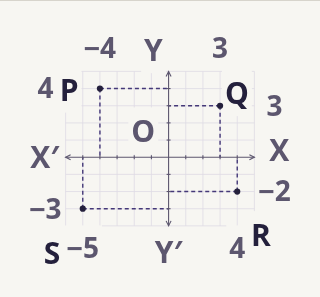
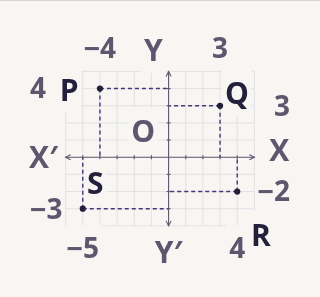
Anchor enlarged axis values within the available gutter

diff --git a/site/assets/diagramguard-coordinate-plot.js b/site/assets/diagramguard-coordinate-plot.js
@@ -56,7 +56,7 @@
   }
 
   function draw(svg, config, width, rem) {
-    const {points,outlines=[],segments=[],directions={},insideLabels='',axes=true,showOrigin=true,
+    const {points,outlines=[],segments=[],directions={},edgeDirections={},insideLabels='',axes=true,showOrigin=true,
       fullAxes=false,quadrants=false,projections=false,pointNames=true}=config;
     const xy = Object.values(points);
     const xs = xy.map(([x])=>x);
@@ -119,7 +119,7 @@
     }
     if (axes) addAxes('X',toPlot(xMin,0),toPlot(xMax,0),[1,0]);
     if (axes && xMin<0) addAxes('Y',toPlot(0,yMin),toPlot(0,yMax),[0,-1]);
-    if (projections) drawProjections(svg,points,toPlot,{xMin,xMax,yMin,yMax},edgeLabels,scale,rem,placements);
+    if (projections) drawProjections(svg,points,toPlot,{width,yMin,yMax},edgeLabels,scale,rem,placements);
     if (quadrants) {
       const names = ['I','II','III','IV'];
       const centers = [[xMax,yMax],[xMin,yMax],[xMin,yMin],[xMax,yMin]];
@@ -159,7 +159,7 @@
           towardCenter.map(value=>value*Math.min(.62,offset*rem/length)));
         placements.push({label,anchor,candidates});
       } else {
-        const direction = directions[id] || [cx-center[0],cy-center[1]];
+        const direction = (edgeLabels && edgeDirections[id]) || directions[id] || [cx-center[0],cy-center[1]];
         placements.push({label,anchor,direction});
       }
     }
@@ -195,10 +195,16 @@
         const away = (i ? -1 : 1)*side;
         if (edgeLabels) {
           // Follow the point's grid line to its nearest edge when the axis is crowded.
-          const edge = i ? project(away>0?bounds.xMin:bounds.xMax,value) :
-            project(value,away>0?bounds.yMax:bounds.yMin);
-          const position = -(i ? .63 : .71)*rem*away;
-          placements.push({label,anchor:edge,candidates:[[dx*position,dy*position]]});
+          if (i) {
+            // Anchor the outer edge of the number so a wider minus glyph cannot clip.
+            const left = away>0;
+            label.setAttribute('text-anchor',left?'start':'end');
+            const gutter = rem*.19;
+            placements.push({label,anchor:[left?gutter:bounds.width-gutter,y],candidates:[[0,0]]});
+          } else {
+            const edge = project(value,away>0?bounds.yMax:bounds.yMin);
+            placements.push({label,anchor:edge,candidates:[[0,-.71*rem*away]]});
+          }
         } else {
           const signs = ticks.has(value) ? [away] : [away,-away];
           const offsets = [.74,.91,1.08,1.35,1.62].flatMap(size=>signs.map(sign=>size*rem*sign));

diff --git a/site/assets/g9-ch5-coordinate-figures.js b/site/assets/g9-ch5-coordinate-figures.js
@@ -12,7 +12,7 @@
     q2: {
       // Fig. 5.11 asks learners to read the projections, so there is no coordinate key.
       points:{ P:[-4,4], Q:[3,3], R:[4,-2], S:[-5,-3] },
-      projections:true, fullAxes:true, key:false
+      projections:true, fullAxes:true, key:false, edgeDirections:{S:[1,-1]}
     },
     q3: [
       { heading:'(i)', points:{ A:[-5,3], B:[-1,3], C:[0,3], D:[5,3] },

diff --git a/docs/evidence/ver-diagramguard-grade9-coordinate/README.md b/docs/evidence/ver-diagramguard-grade9-coordinate/README.md
@@ -1,6 +1,6 @@
 # VER DiagramGuard · Grade 9 Exercise 5.1
 
-Four exercise figures contain seven coordinate plots. The 2025 SCERT English edition, printed pp. 192–193, and Tamil edition, printed pp. 205–206, agree on the coordinates and the printed plotting order. Fig. 5.11 preserves the four labeled points and both projections per point. Q3 separates the horizontal and vertical cases. Q4 shows the square, the self-crossing printed order ABCDA, and the perimeter order ABDCA in separate plots.
+Four exercise figures contain seven coordinate plots. The 2025 SCERT English edition, printed pp. 192–193, and Tamil edition, printed pp. 205–206, agree on the coordinates and the printed plotting order. Fig. 5.11 preserves the four labeled points and both projections per point. Q3 separates the horizontal and vertical cases. The earlier Q1–Q3 SVGs used different horizontal and vertical scales. The revised plots use one scale for both axes. Q4 shows the square, the self-crossing printed order ABCDA, and the perimeter order ABDCA in separate plots.
 
 At larger text sizes Fig. 5.11 places the required tick values at the nearest grid edges. The projections remain continuous in meaning and the question still asks the learner to read the values. The figure preserves unit tick marks and uses fewer secondary numbers where space is limited.
 
@@ -14,7 +14,7 @@ At larger text sizes Fig. 5.11 places the required tick values at the nearest gr
 
 Both standalone scans used Chromium at 300 CSS px. Baseline counts include contacts with the reference grid. The broader legacy scan still flags 136 distinct renderings after the two coordinate passes.
 
-The [permanent browser tests](../../../site/tools/test_g9_ch5_coordinate_figures_browser.cjs) check the point coordinates at a single Cartesian scale, render both projections per point at the correct ticks, verify the panel-specific edges and regions, and check for intersections and reflow in both languages and both figure surfaces at 100% and 200% text size. The [inventory](../ver-diagramguard-v1-0/inventory.csv) records the four asset groups and their source references. An additional Grade 9 Q1 regression uses wider fallback font metrics to verify the X′ label stays inside the drawing. Physical Android inspection remains outstanding.
+The [permanent browser tests](../../../site/tools/test_g9_ch5_coordinate_figures_browser.cjs) check the point coordinates at a single Cartesian scale, render both projections per point at the correct ticks, verify the panel-specific edges and regions, and check for intersections and reflow in both languages and both figure surfaces at 100% and 200% text size. The [inventory](../ver-diagramguard-v1-0/inventory.csv) records the four asset groups and their source references. Additional Q1 and Q2 regressions use wider fallback font metrics to check the X′ label, tick values and plot boundaries. Physical Android inspection remains outstanding.
 
 ## Matched captures
 
